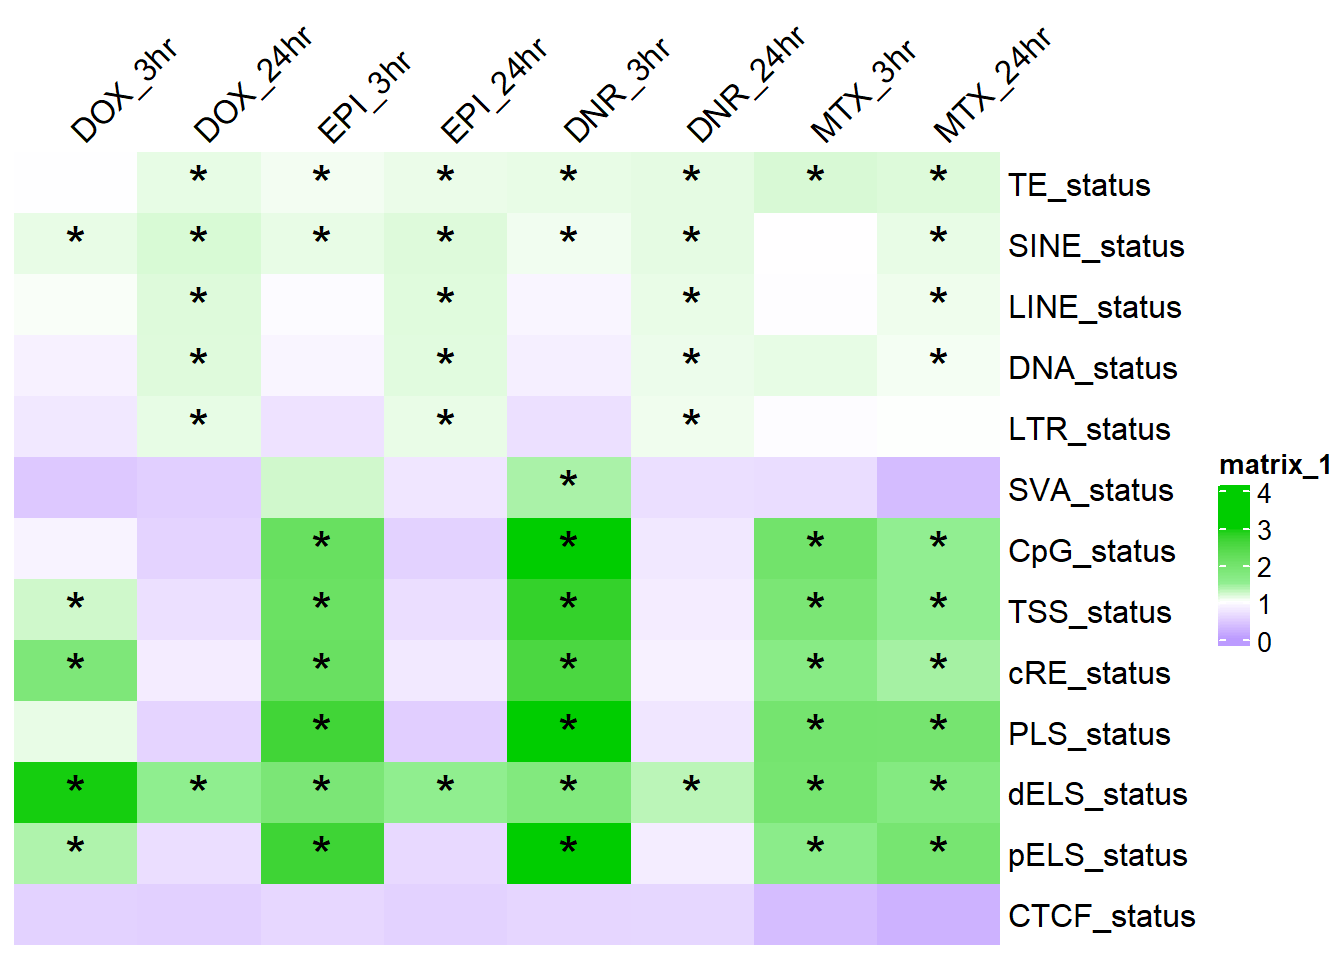
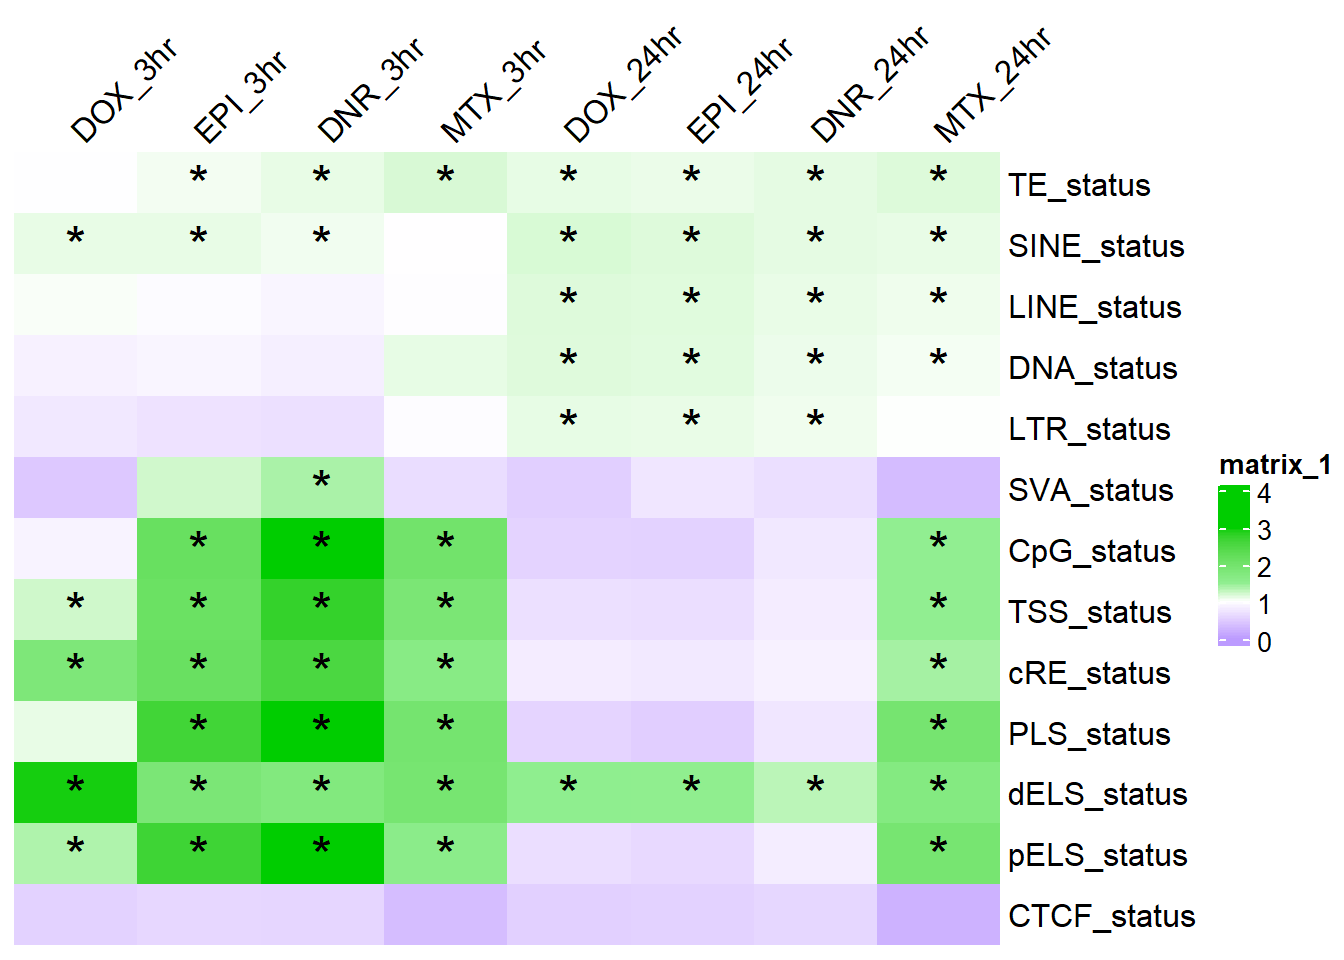
Build site.

diff --git a/docs/BH_correction_ALLtrt.html b/docs/BH_correction_ALLtrt.html
@@ -521,15 +521,15 @@ project makes it easier to run your code on other machines.</p>
 <div class="panel panel-default">
 <div class="panel-heading">
 <p class="panel-title">
-<a data-toggle="collapse" data-parent="#workflowr-checks" href="#strongRepositoryversionstrongahrefhttpsgithubcommwardlabMatthewscardiotoxATAC2025tree0d540d177700415c13c4cf77fe906f42d10b91eetargetblank0d540d1a">
+<a data-toggle="collapse" data-parent="#workflowr-checks" href="#strongRepositoryversionstrongahrefhttpsgithubcommwardlabMatthewscardiotoxATAC2025treecc3973763af4521bcf4334417dc5d0d13f0b6658targetblankcc39737a">
 <span class="glyphicon glyphicon-ok text-success"
 aria-hidden="true"></span> <strong>Repository version:</strong>
-<a href="https://github.com/mward-lab/Matthews_cardiotox_ATAC_2025/tree/0d540d177700415c13c4cf77fe906f42d10b91ee" target="_blank">0d540d1</a>
+<a href="https://github.com/mward-lab/Matthews_cardiotox_ATAC_2025/tree/cc3973763af4521bcf4334417dc5d0d13f0b6658" target="_blank">cc39737</a>
 </a>
 </p>
 </div>
 <div
[2 lines of base64/hex data omitted]
 class="panel-collapse collapse">
 <div class="panel-body">
 <p>
@@ -539,7 +539,7 @@ reproducibility.
 </p>
 <p>
 The results in this page were generated with repository version
-<a href="https://github.com/mward-lab/Matthews_cardiotox_ATAC_2025/tree/0d540d177700415c13c4cf77fe906f42d10b91ee" target="_blank">0d540d1</a>.
+<a href="https://github.com/mward-lab/Matthews_cardiotox_ATAC_2025/tree/cc3973763af4521bcf4334417dc5d0d13f0b6658" target="_blank">cc39737</a>.
 See the <em>Past versions</em> tab to see a history of the changes made
 to the R Markdown and HTML files.
 </p>
@@ -805,6 +805,40 @@ Message
 Rmd
 </td>
 <td>
+<a href="https://github.com/mward-lab/Matthews_cardiotox_ATAC_2025/blob/cc3973763af4521bcf4334417dc5d0d13f0b6658/analysis/BH_correction_ALLtrt.Rmd" target="_blank">cc39737</a>
+</td>
+<td>
+reneeisnowhere
+</td>
+<td>
+2025-07-17
+</td>
+<td>
+update order of images
+</td>
+</tr>
+<tr>
+<td>
+html
+</td>
+<td>
+<a href="https://rawcdn.githack.com/mward-lab/Matthews_cardiotox_ATAC_2025/b40e59e4ad3bf7d3803aa468837025c2afb3fdc7/docs/BH_correction_ALLtrt.html" target="_blank">b40e59e</a>
+</td>
+<td>
+reneeisnowhere
+</td>
+<td>
+2025-07-17
+</td>
+<td>
+Build site.
+</td>
+</tr>
+<tr>
+<td>
+Rmd
+</td>
+<td>
 <a href="https://github.com/mward-lab/Matthews_cardiotox_ATAC_2025/blob/0d540d177700415c13c4cf77fe906f42d10b91ee/analysis/BH_correction_ALLtrt.Rmd" target="_blank">0d540d1</a>
 </td>
 <td>
@@ -923,6 +957,7 @@ results_mat &lt;- results_order %&gt;%
                           cluster_columns=FALSE,
                           column_names_side = &quot;top&quot;,
                           column_names_rot = 45,
+                        column_order=c(&quot;DOX_3hr&quot;,&quot;EPI_3hr&quot;,&quot;DNR_3hr&quot;,&quot;MTX_3hr&quot;,&quot;DOX_24hr&quot;,&quot;EPI_24hr&quot;,&quot;DNR_24hr&quot;,&quot;MTX_24hr&quot;),
                           # na_col = &quot;black&quot;,
                           cell_fun = function(j, i, x, y, width, height, fill) {
                             if (!is.na(sig_mat_OR[i, j]) &amp;&amp; sig_mat_OR[i, j] &lt;0.05 &amp;&amp; results_mat[i, j] &gt; 1) {
